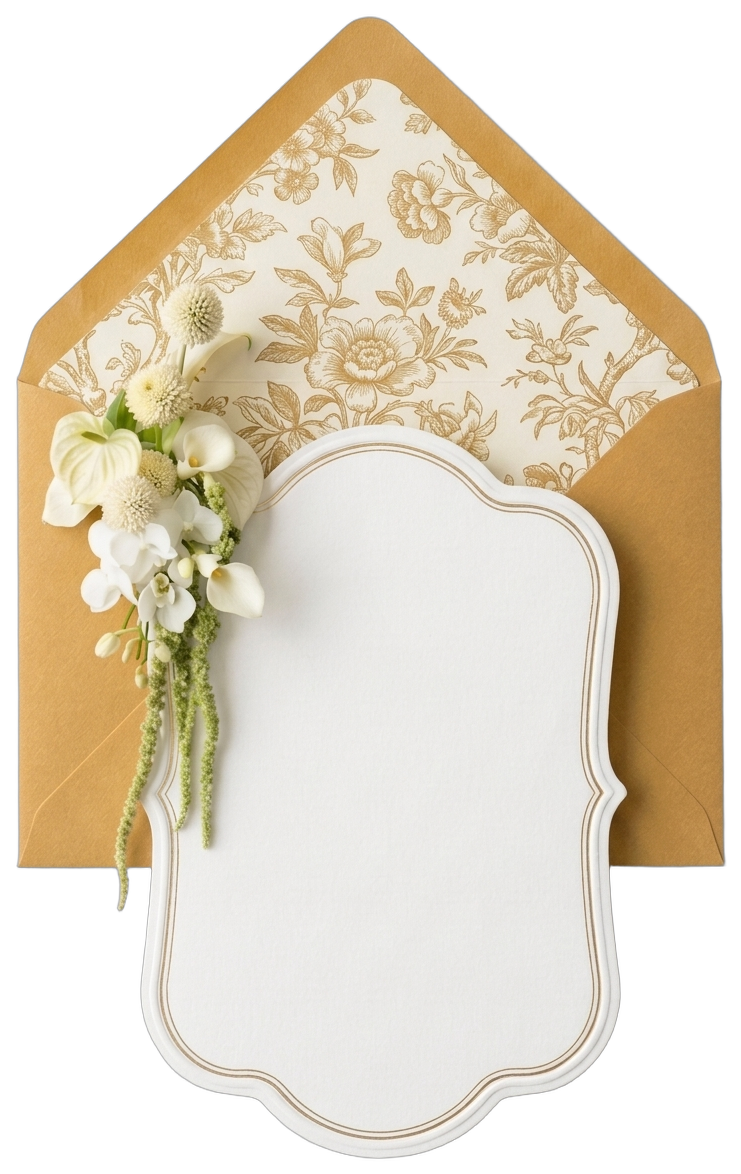
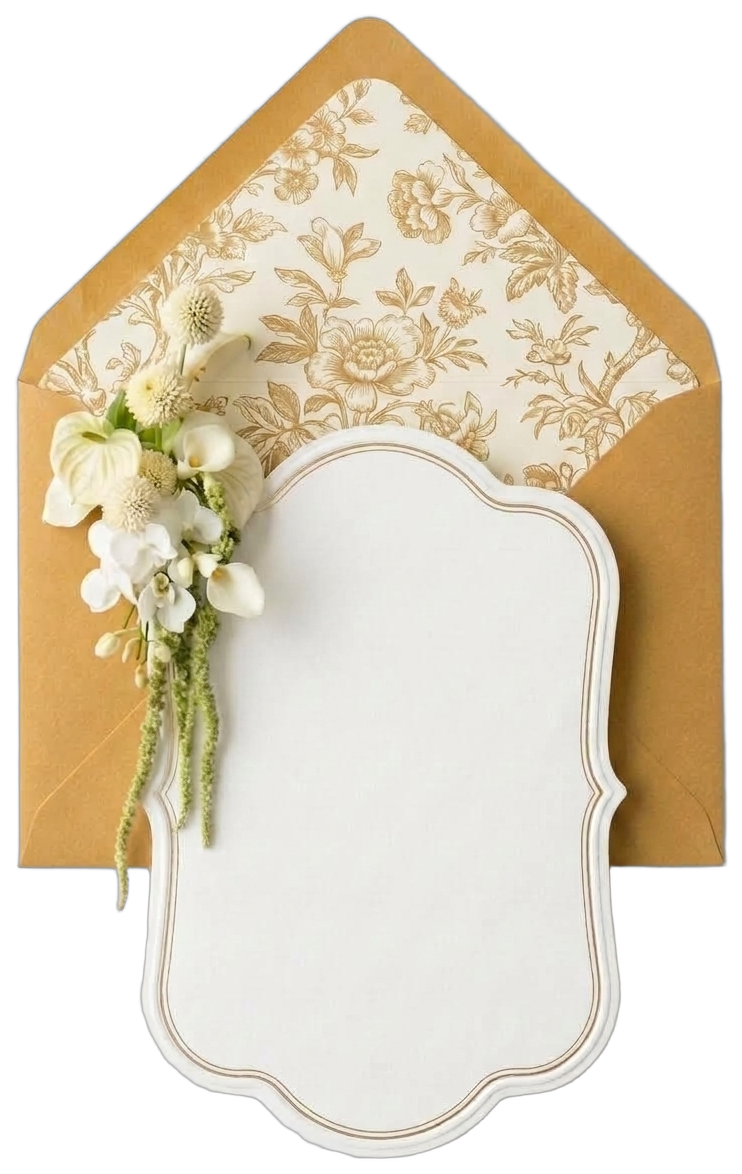
Actualizar imagen con tarjeta desplazada a la derecha y alinear texto tipografico

diff --git a/app/static/css/style.css b/app/static/css/style.css
@@ -423,10 +423,10 @@ body.envelope-locked {
 /* Capa tipográfica superpuesta con precisión milimétrica sobre la tarjeta blanca */
 .tarjeta-texto-overlay {
   position: absolute;
-  top: 46%;
-  left: 56.5%;
+  top: 48%;
+  left: 59.5%;
   transform: translateX(-50%);
-  width: 50%;
+  width: 52%;
   height: 48%;
   display: flex;
   flex-direction: column;
